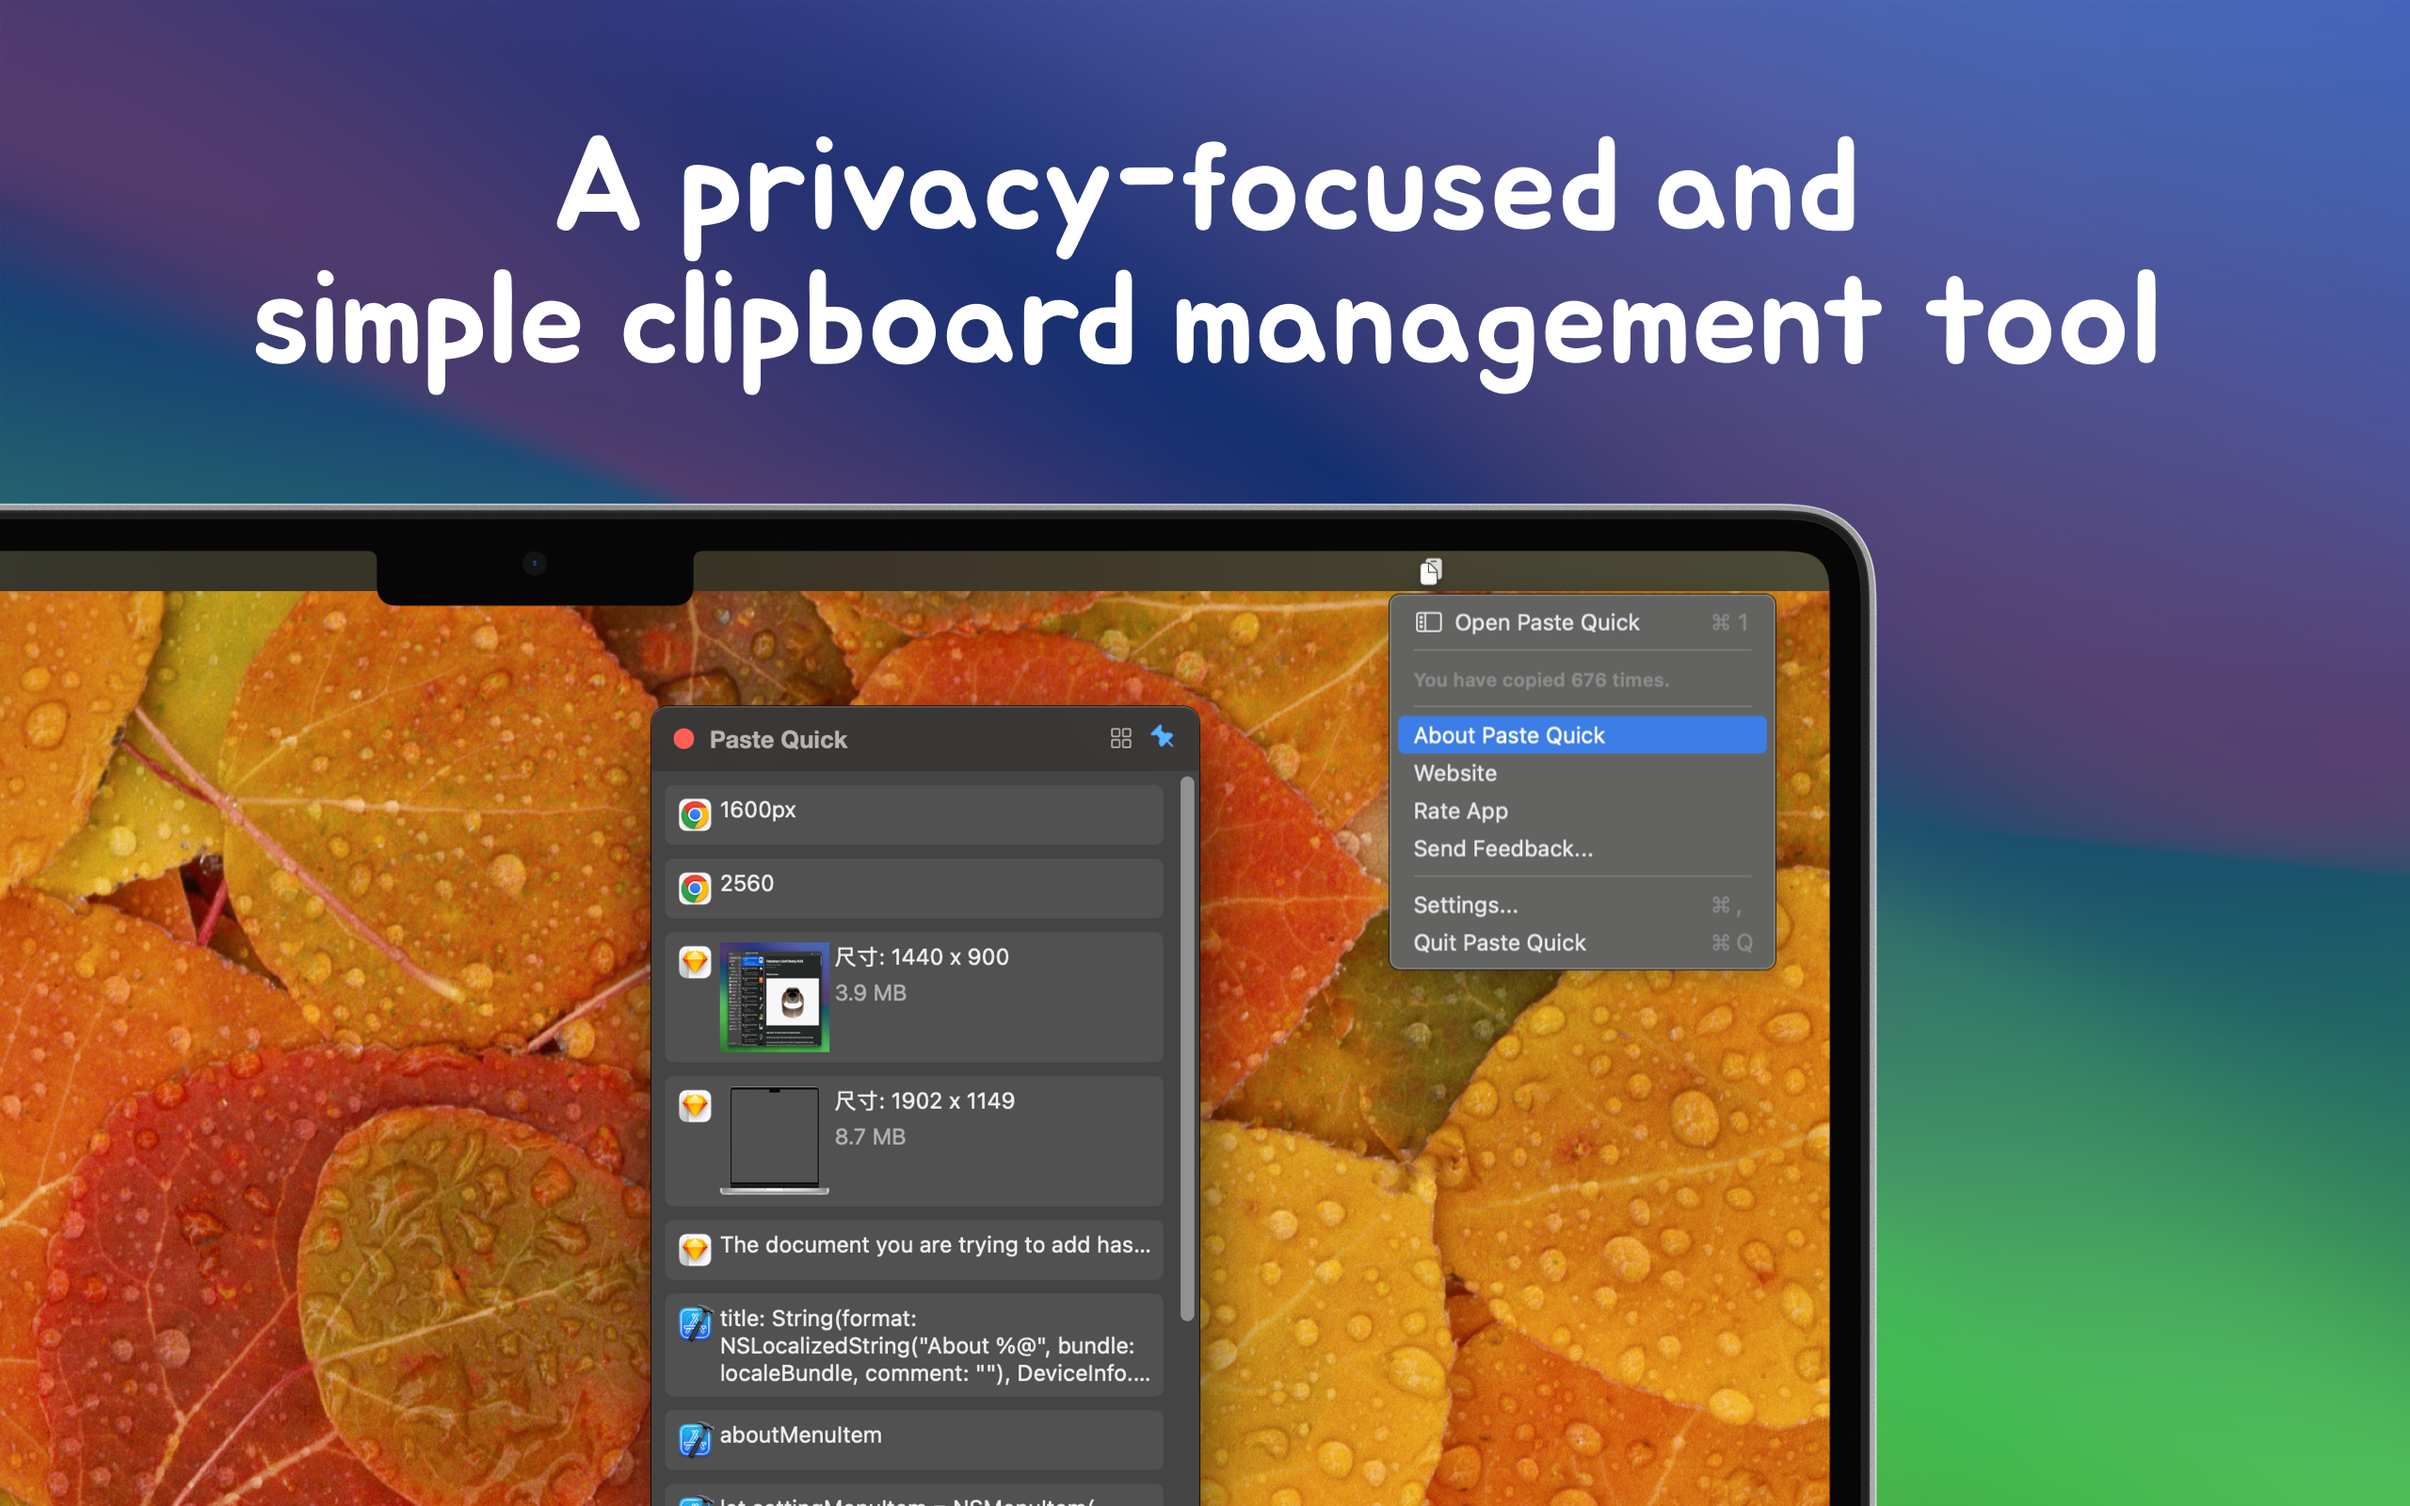
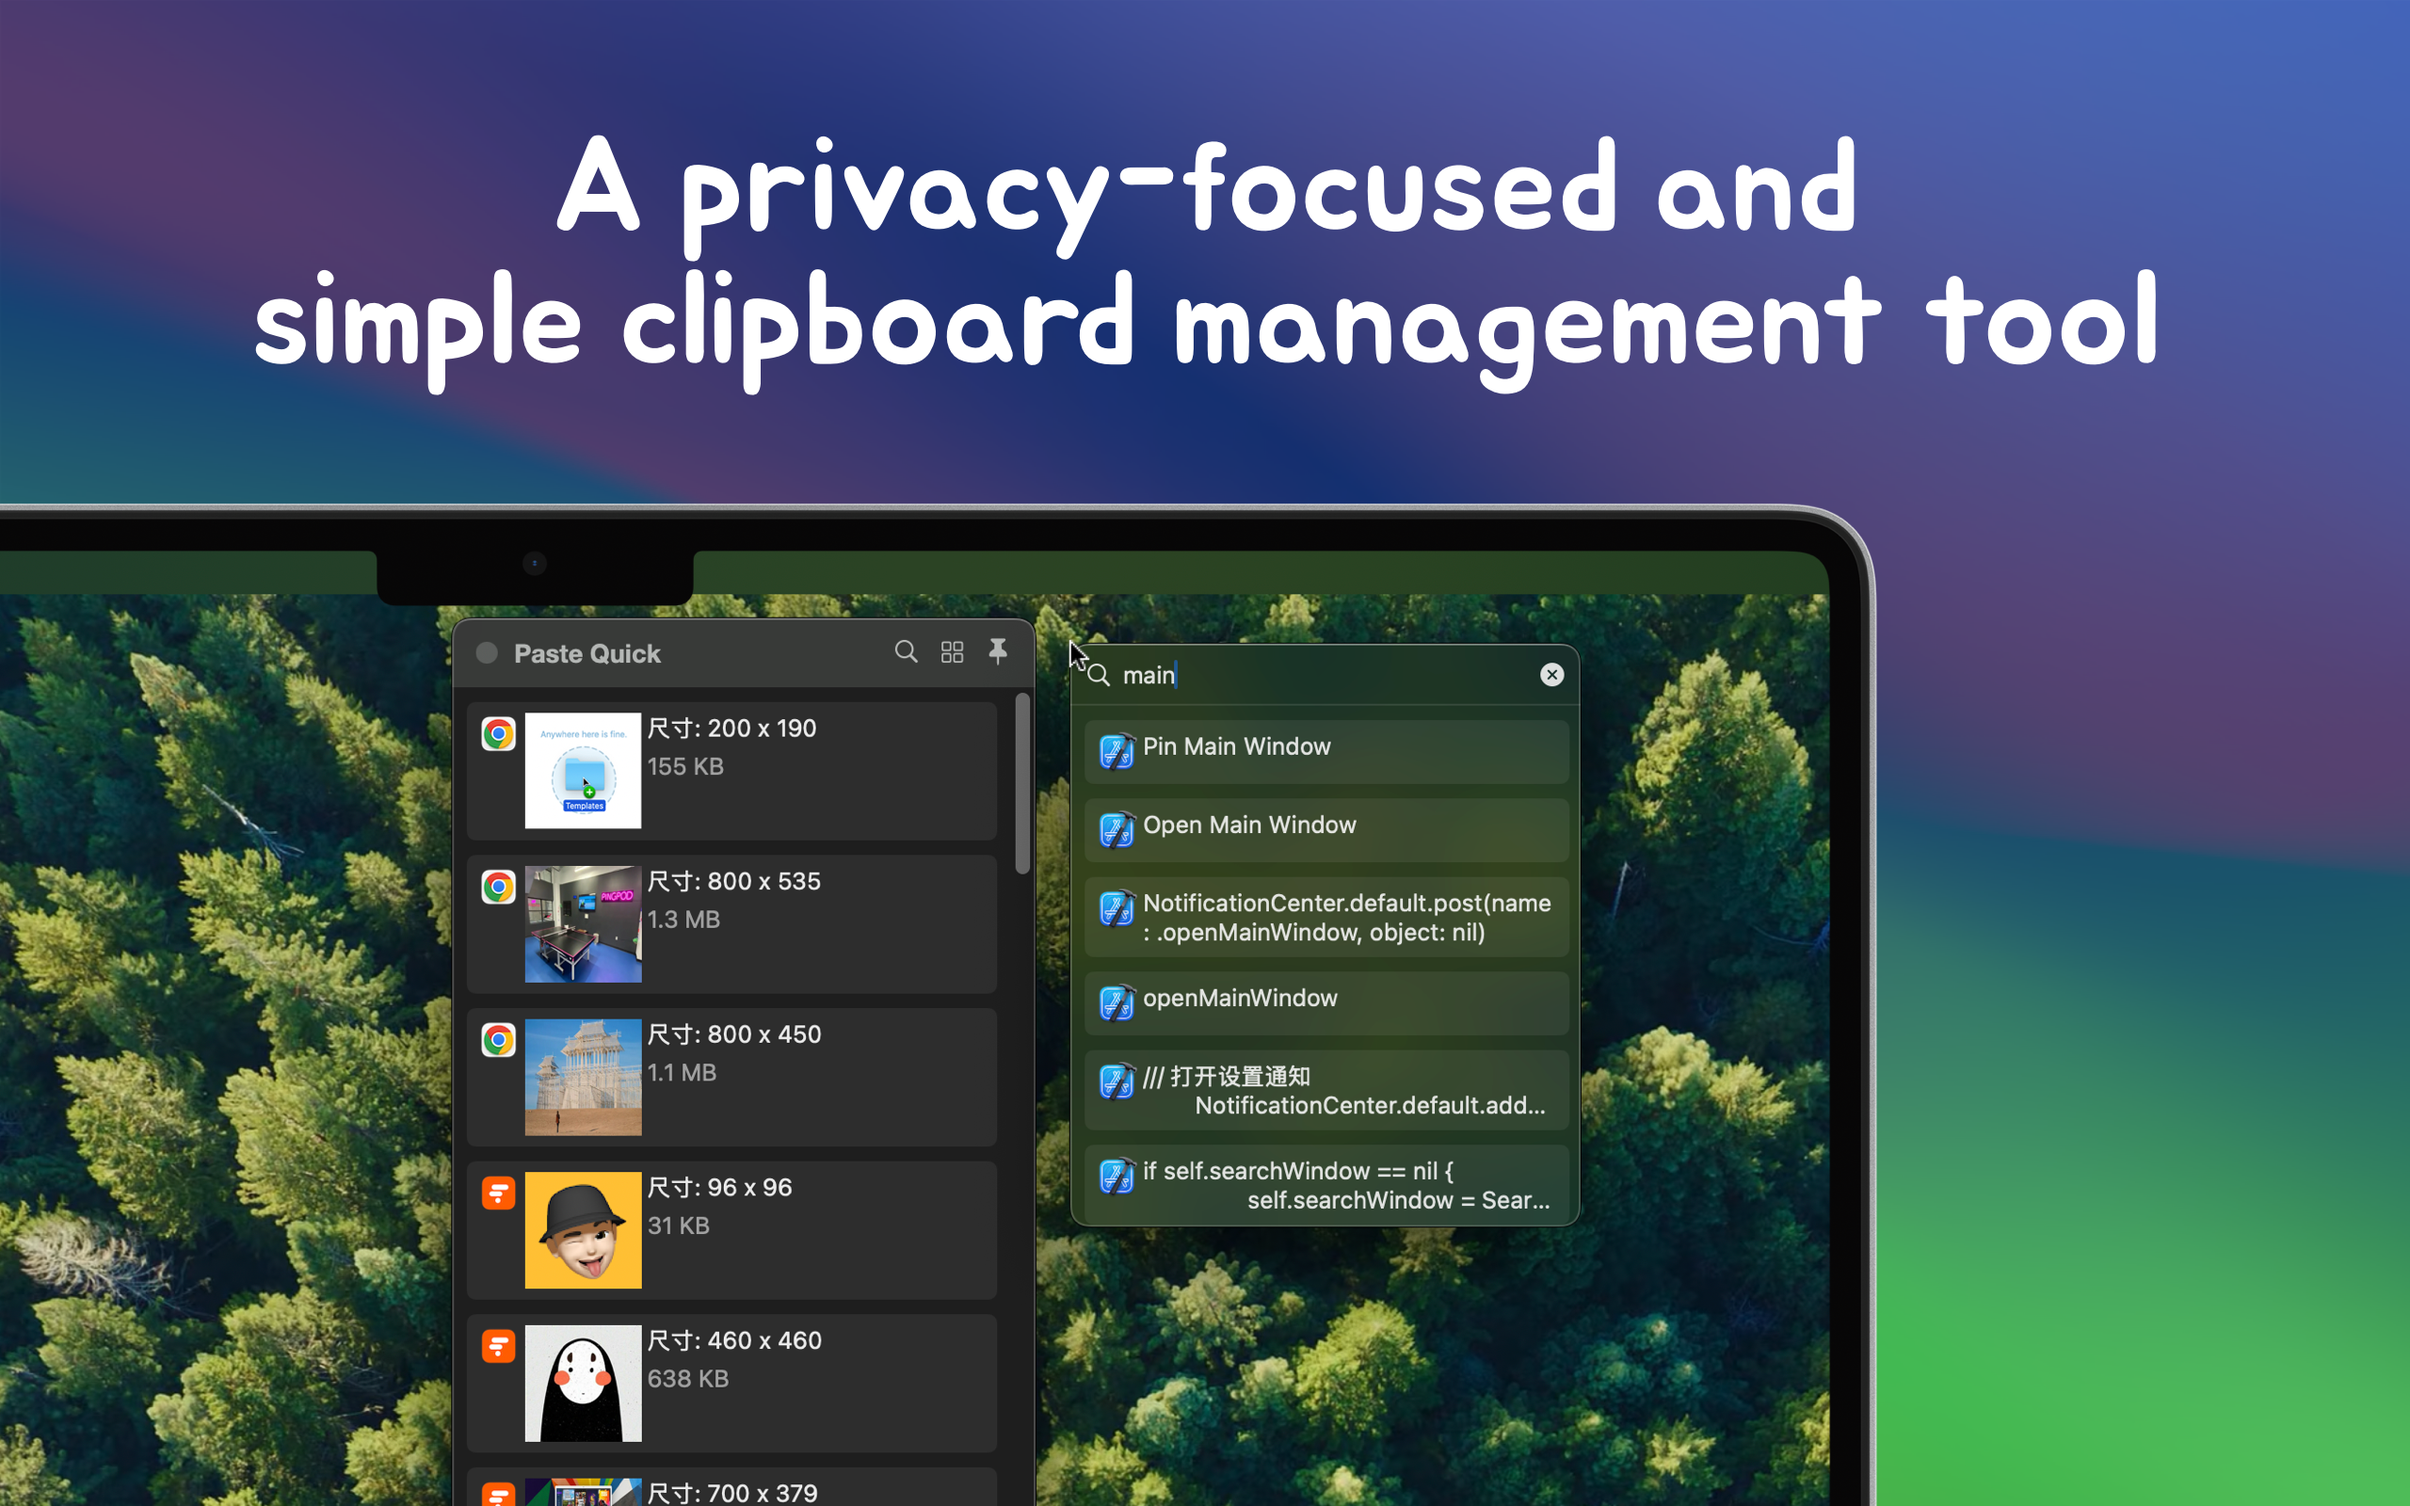
feat: update screenshots. ef9182220cef41baabaff5e1ba6638614173815d

diff --git a/index.zh.html b/index.zh.html
@@ -64,7 +64,10 @@
         </div>
         <p>PasteQuick 是一款注重隐私与简洁的剪贴板管理工具，帮助你高效管理各种临时数据，如文本、链接、图片和代码。它能够记录你复制或剪切的所有内容，并保存到历史列表中，让你快速查找并使用剪贴板记录，从而显著提升工作效率。</p>
         <p>
-          <img src="assets/screenshots-1.png" alt="Paste Quick Screenshot 1">
+          <img src="assets/screenshots-1-cn.png" alt="Paste Quick Screenshot 1-cn">
+        </p>
+        <p>
+          <img src="assets/screenshots-4-cn.png" alt="Paste Quick Screenshot 4-cn">
         </p>
         <ul>
           <li>隐私保护：所有剪贴板历史记录仅存储在本地设备上，支持排除特定应用的记录，确保数据安全，隐私无忧。</li>
@@ -72,10 +75,10 @@
           <li>个性化设置：支持列表显示的自定义选项，可以根据需要隐藏或显示特定内容，满足不同场景的使用需求。</li>
         </ul>
         <p>
-          <img src="assets/screenshots-2.png" alt="Paste Quick Screenshot 2">
+          <img src="assets/screenshots-2-cn.png" alt="Paste Quick Screenshot 2">
         </p>
         <p>
-          <img src="assets/screenshots-3.png" alt="Paste Quick Screenshot 3">
+          <img src="assets/screenshots-3-cn.png" alt="Paste Quick Screenshot 3">
         </p>
         <p>PasteQuick 正在不断优化开发中，期待为你的工作带来更多便利。欢迎提供宝贵的反馈与建议！</p><!--idoc:config:
         site: Paste Quick

diff --git a/index.html b/index.html
@@ -65,6 +65,9 @@
         <p>
           <img src="assets/screenshots-1.png" alt="Paste Quick Screenshot 1">
         </p>
+        <p>
+          <img src="assets/screenshots-4.png" alt="Paste Quick Screenshot 4">
+        </p>
         <ul>
           <li><strong>Privacy Protection</strong>: All clipboard history is stored locally on your device, with support for excluding specific applications from being recorded, ensuring data security and privacy.</li>
           <li><strong>Multimedia Preview</strong>: PasteQuick supports image thumbnail previews, allowing you to easily and quickly view copied images.</li>
